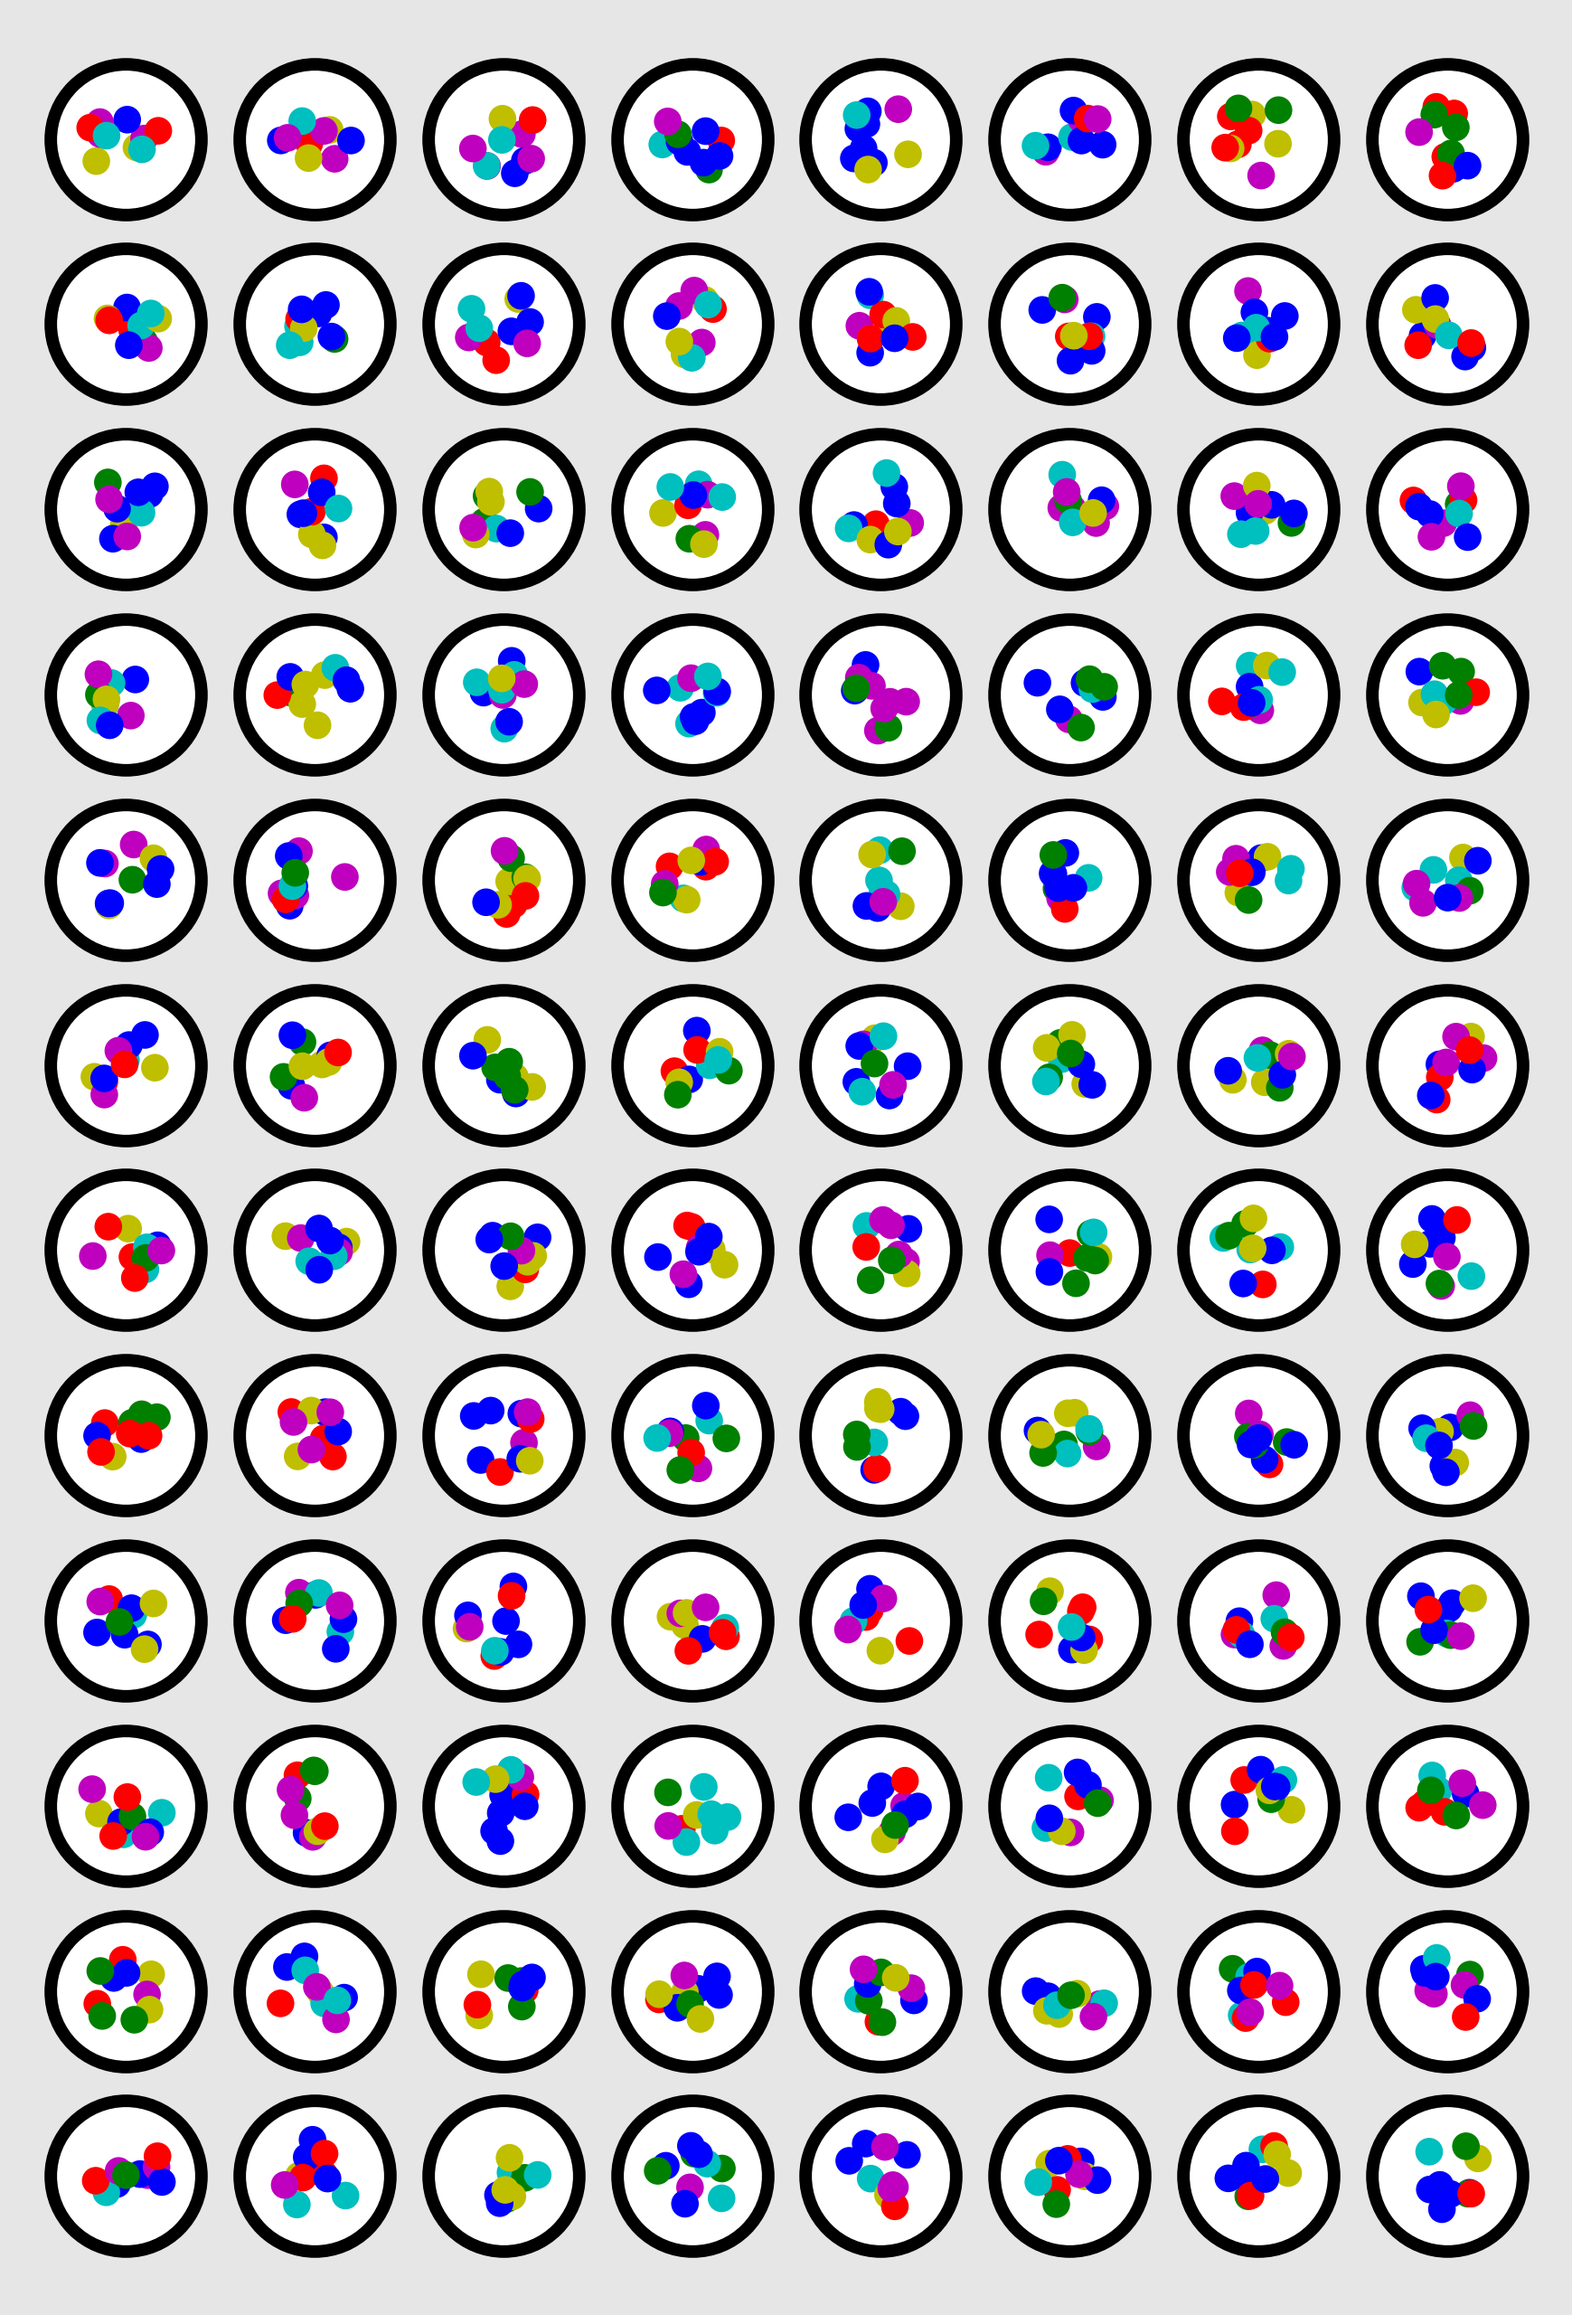
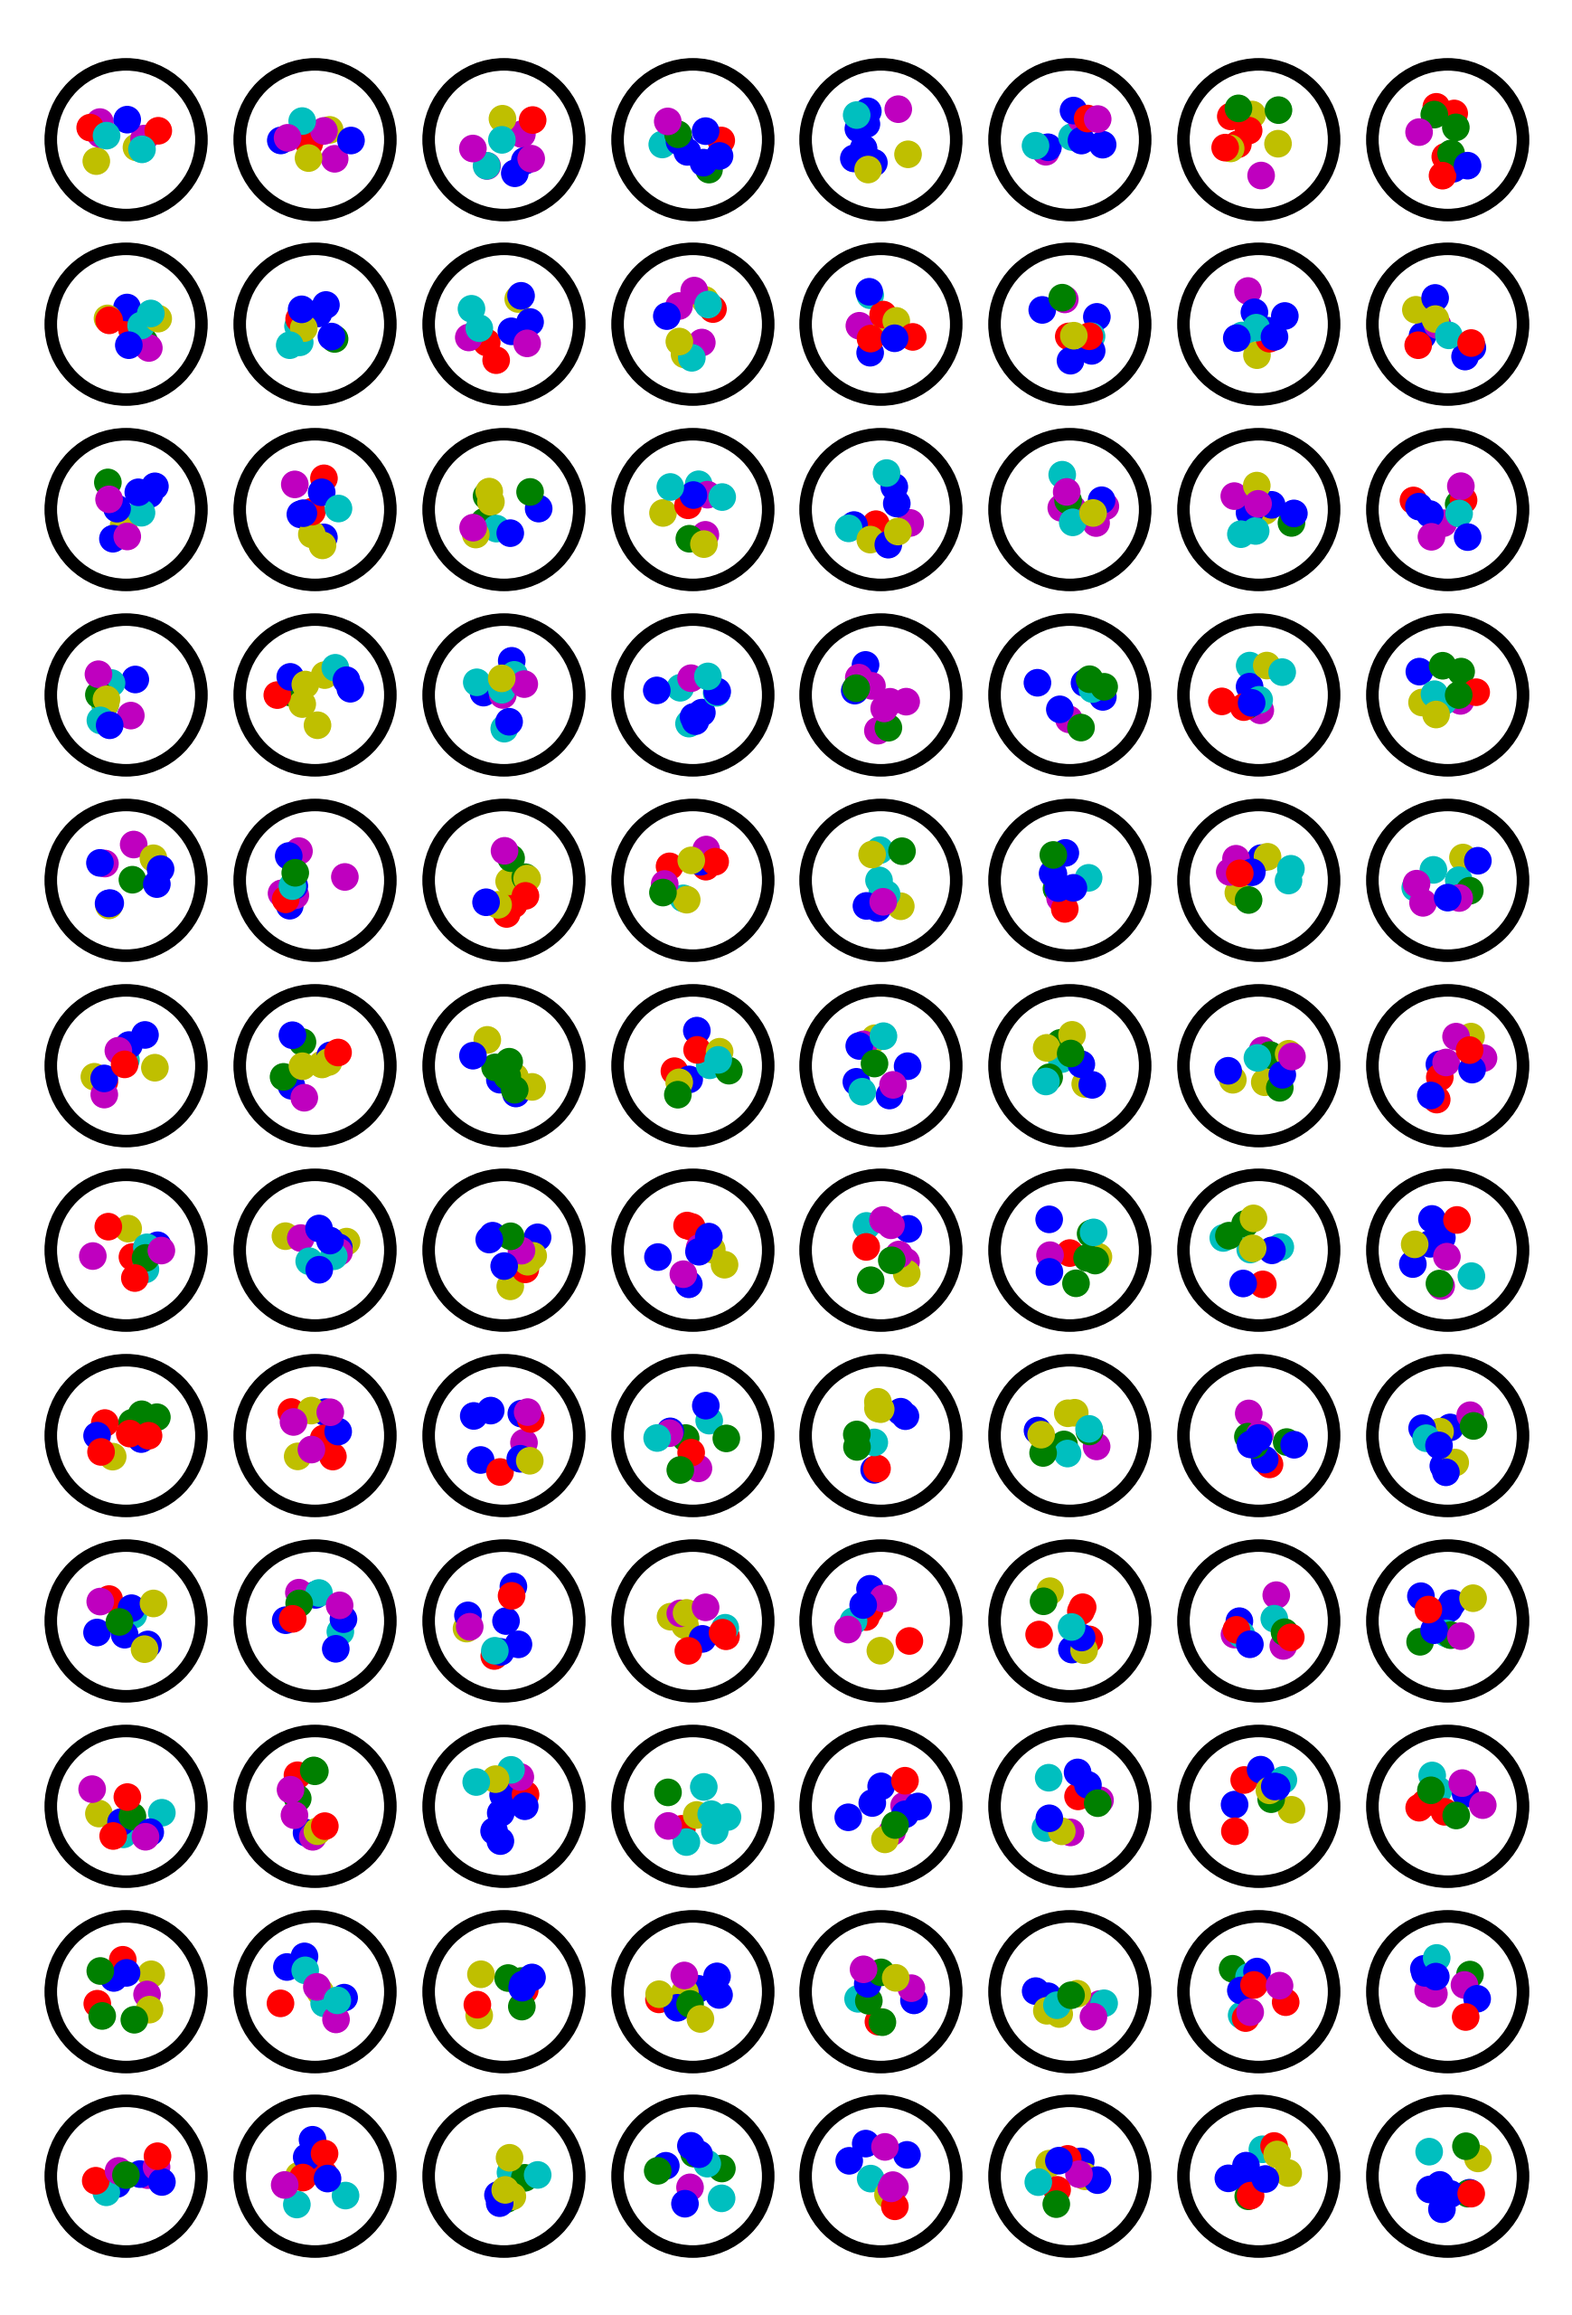
improved post processing and visualizations

diff --git a/post_processing.py b/post_processing.py
@@ -11,7 +11,6 @@ import numpy as np
 import matplotlib.pyplot as plt
 
 # homegrown libraries
-#from methods import *
 plt.rcParams["font.family"] = "serif"
 
 '''
@@ -26,7 +25,8 @@ def analyze_results(results,data,*args,**kwargs):
 
     # default settings parameters
     options = {
-              'fdr':0.01
+              'fdr':0.01,
+              'silent':False
               }
 
     # update settings
@@ -34,7 +34,6 @@ def analyze_results(results,data,*args,**kwargs):
     options.update(kwargs)
 
     # assertion check
-    #assert len(results['cells']) == len(results['threshold']), "differing # cells/thresholds"
     
     # these are guessed cells
     cells_with_scores = sorted(results,key=lambda x: -x[1])
@@ -74,8 +73,14 @@ def analyze_results(results,data,*args,**kwargs):
               'positives':sum(pattern),
               'negatives':len(pattern) - sum(pattern),
               'total':len(pattern),
-              'freqs':cells_freqs
+              'freqs':cells_freqs,
+              'xy':[x1,y1]
               }
+
+    if not options['silent']:
+        # display characteristics of the data
+        for k,v in results.items():
+            print '{}:{}'.format(k,v)
 
     return results
 
@@ -89,92 +94,69 @@ def visualize_results(results,data,*args,**kwargs):
 
     # default settings parameters
     settings = {
+            'fdr':0.01,
+            'fdr_plot':0.01,
             'pos_color':'black',
             'neg_color':'white',
-            'legend':True
+            'legend':True,
+            'silent':False
                }
 
     # update settings
     for arg in args: settings.update(arg)
     settings.update(kwargs)
 
-    # assertion check
-    #assert len(results['cells']) == len(results['threshold']), "differing # cells/thresholds"
-    
-    #
-    cells_with_scores = sorted(results,key=lambda x: -x[1])
-    cells_without_scores = [i[0] for i in cells_with_scores]
-
-    # these are actuall cells
-    cells_temp = sorted([(a,b) for a,b in data['cells'].items()],key=lambda x: -x[1])
-    cells_record = set([c[0] for c in cells_temp])
-    cells_label = [c[0] for c in cells_temp]
-    cells_freqs = [c[1] for c in cells_temp]
-    total_cells = len(cells_temp) 
-
-    # look at error rate (stratified by confidence) [FIGURE 1]
-    x1,y1,fdr = [0],[0],0.01
-    for c in cells_with_scores:
-        try:
-            data['cells'][c[0]]
-            x1.append(x1[-1])
-            y1.append(y1[-1]+1)
-        except KeyError:
-            x1.append(x1[-1]+1)
-            y1.append(y1[-1])
-        if x1[-1] > fdr*y1[-1]:
-            break
-
-    total_matches_at_fdr = x1[-1] + y1[-1]
-
-    # look at error rate (stratified by confidence) [FIGURE 1]
-    freqs_colors,frac_repertoire = [],0.
-    x2 = []
-
-    for i,c in enumerate(cells_label):
-        if c in cells_without_scores[:total_matches_at_fdr]:
-            freqs_colors.append((cells_freqs[i],settings['pos_color']))
-            frac_repertoire += cells_freqs[i]
-        else:
-            freqs_colors.append((cells_freqs[i],settings['neg_color']))
-        x2.append(i)
-
-    freqs_colors = sorted(freqs_colors,key=lambda x: -x[0])
-    y2 = [i[0] for i in freqs_colors]
-    colors = [i[1] for i in freqs_colors]
-
-    print 'Total cells:',len(cells_record)
-    print 'Matches at FDR = 0.01:',total_matches_at_fdr
-    print 'Positives:',colors.count(settings['pos_color'])
-    print 'Negatives:',colors.count(settings['neg_color'])
-    print 'Fraction of repertoire:',frac_repertoire
+    # heavy lifting on the data
+    cresults = analyze_results(results,data,settings)
 
     # 
-    plt.plot(x1,y1)
+
+    # 
+    ax = plt.figure().gca() # initialize figure
+
+    linewidth = 5
+
+    # get data attributes
+    false_limit = cresults['xy'][0][-1]
+    true_limit = cresults['xy'][1][-1]
+    fdr_limit = min(false_limit,settings['fdr_plot']*true_limit)
+
+    # plot FDR line
+    plt.plot((0,fdr_limit),(0,fdr_limit/settings['fdr_plot']),
+            linestyle='--',color='k',linewidth=linewidth)
+
+    # plot main data auroc
+    plt.plot(*cresults['xy'],linewidth=linewidth) 
+
+    # add labels
+    plt.xlabel('False positives (#)')
+    plt.ylabel('True positives (#)')
+
+    # change axes
+    #plt.xticks(np.arange(0,false_limit+1,1))
+    #plt.xlim(-0.1,1.1*false_limit)
+    #plt.ylim(-0.1,1.1*true_limit)
 
     fig,ax = plt.subplots(figsize=(10,5))
 
     plt.yscale('log')
 
-    for l,color in zip(('Correct','Incorrect'),(settings['pos_color'],settings['neg_color'])):
-        xs = [i for i,c in zip(x2,colors) if c == color]
-        ys = [i for i,c in zip(y2,colors) if c == color]
+    for val,color,l in zip(
+            (0,1),(settings['neg_color'],settings['pos_color']),('Correct','Incorrect')):
+        xs = [i for i,p in enumerate(cresults['pattern']) if p == val]
+        ys = [f for f,p in zip(cresults['freqs'],cresults['pattern']) if p == val]
         if len(xs) > 0: plt.bar(xs,ys,color=color,width=1,log=True,label=l,edgecolor='none')
 
-    plt.plot(xrange(len(cells_freqs)),cells_freqs,color='k')
+    plt.plot(xrange(len(cresults['freqs'])),cresults['freqs'],color='k')
 
-    #plt.annotate('{}/{} identified'.format(colors.count('green'),len(cells_record)),
-    #        xy=(0.7,0.6),xycoords='axes fraction')
-    #plt.annotate('{}% repertoire'.format(round(100*frac_repertoire,2)),
-    #        xy=(0.7,0.55),xycoords='axes fraction')
     if settings['legend'] == True:
         leg = plt.legend()
         leg.get_frame().set_edgecolor('k')
 
 
-    plt.xlim((0,len(x2)))
-    plt.ylim((min(y2),10**ceil(log10(max(y2)-1e-9))))
-    ax.set_xticks([0,len(x2)/2,len(x2)])
+    plt.xlim((0,len(cresults['freqs'])))
+    plt.ylim((min(cresults['freqs']),10**ceil(log10(max(cresults['freqs'])-1e-9))))
+    ax.set_xticks([0,len(cresults['freqs'])/2,len(cresults['freqs'])])
     ax.spines['top'].set_visible(False)
     ax.spines['left'].set_visible(False)
     ax.spines['right'].set_visible(False)

diff --git a/main.py b/main.py
@@ -22,7 +22,7 @@ from post_processing import analyze_results
 
 #------------------------------------------------------------------------------# 
 
-def test(*args,**kwargs):
+def simulate_system(*args,**kwargs):
 
     options = {
               # experimental design
@@ -155,9 +155,12 @@ def test(*args,**kwargs):
     # gather results
     compiled_results = analyze_results(results,data,options)
 
-    # visualize results if requested
     if options['visual']:
+        # visualize results if requested
         visualize_results(results,data,options)
+    else:
+        # gather results
+        compiled_results = analyze_results(results,data,options)
 
     # return compiled results
     return compiled_results
@@ -240,6 +243,7 @@ if __name__ == "__main__":
 
     if mode == 1:
         
+        '''
         options = {
                 'num_cells':1000,
                 'num_wells':(48,48),
@@ -250,11 +254,12 @@ if __name__ == "__main__":
                 'silent':False,
                 'visual':True
                 }
+        '''
 
         options = {
-                'num_cells':1000,
+                'num_cells':100,
                 'num_wells':(42,54),
-                'cell_freq_max':0.01,
+                'cell_freq_max':0.05,
                 'cpw':(25,1760),
                 'seed':1,
                 # visual cues
@@ -262,7 +267,7 @@ if __name__ == "__main__":
                 'visual':True
                 }
 
-        results = test(options)
+        results = simulate_system(options)
 
     if mode == 2:
     

diff --git a/figures/fig1.py b/figures/fig1.py
@@ -41,7 +41,7 @@ def main(*args,**kwargs):
 
                     plt.scatter(x_well,y_well,color=well_colors,s=cell_size,zorder=10)
         elif mode == 'dna':
-            w_i = [(x,y) for x,y in zip([4,7,3,5,7,3,1,5,6,8,1,2],[2,2,5,9,12,11,5,1,4,9,9,6])]
+            w_i = [(x,y) for x,y in zip([4,7,3,5,7,3,3,5,6,8,1,2],[2,2,5,9,12,9,8,1,4,9,9,6])]
             w_j = w_i[:6] + [(x,y) for x,y in zip([3,7,5,5,7,7],[7,7,4,4,9,2])]
 
             sets = [(w_i,'r',-0.1),(w_j,'b',0.1)]
@@ -60,7 +60,8 @@ def main(*args,**kwargs):
         plt.xlim([0.5,rows+0.5])
         plt.ylim([0.5,columns+0.5])
         plt.axis('off')
-        fig.patch.set_facecolor([0.9,0.9,0.9])
+        fig.patch.set_facecolor([1.0,1.0,1.0])
+        #fig.patch.set_facecolor([0.9,0.9,0.9])
         plt.subplots_adjust(left=0.02, right=0.98, top=0.98, bottom=0.02)
 
         #plt.savefig('myfig.png',facecolor=fig.get_facecolor(), edgecolor='none',bbox_inches='tight')

diff --git a/make_diagrams.py b/make_diagrams.py
@@ -5,9 +5,24 @@ This collection of scripts is designed to produce figures that we care about
 
 from figures import fig1
 from figures import fig2
+from main import simulate_system
 
 #------------------------------------------------------------------------------#
 
-fig2.main()
+settings = {
+        'subplots':[1,2],
+        'fdr':0.03,
+        'num_cells':1000,
+        'cell_freq_max':0.01,
+        'num_wells':(96,),
+        'cpw':(100,),
+        'seed':1,
+        # visual cues
+        'silent':False,
+        'visual':True
+        }
+
+fig1.main()
+#fig2.main(settings)
 
 #------------------------------------------------------------------------------#

diff --git a/figures/fig2.py b/figures/fig2.py
@@ -13,6 +13,7 @@ import matplotlib.colors as colors
 
 # homegrown libraries
 from solver.methods import match_probability
+from main import simulate_system 
 
 # library modifications
 plt.rcParams["font.family"] = "FreeSerif"
@@ -87,7 +88,8 @@ def main(*args,**kwargs):
 
     if 2 in settings['subplots']:
         #TODO: add functionality
-        """ Subplot 2 """
+        """  """
+        simulate_system(settings)
 
     if 3 in settings['subplots']:
         #TODO: add functionality
